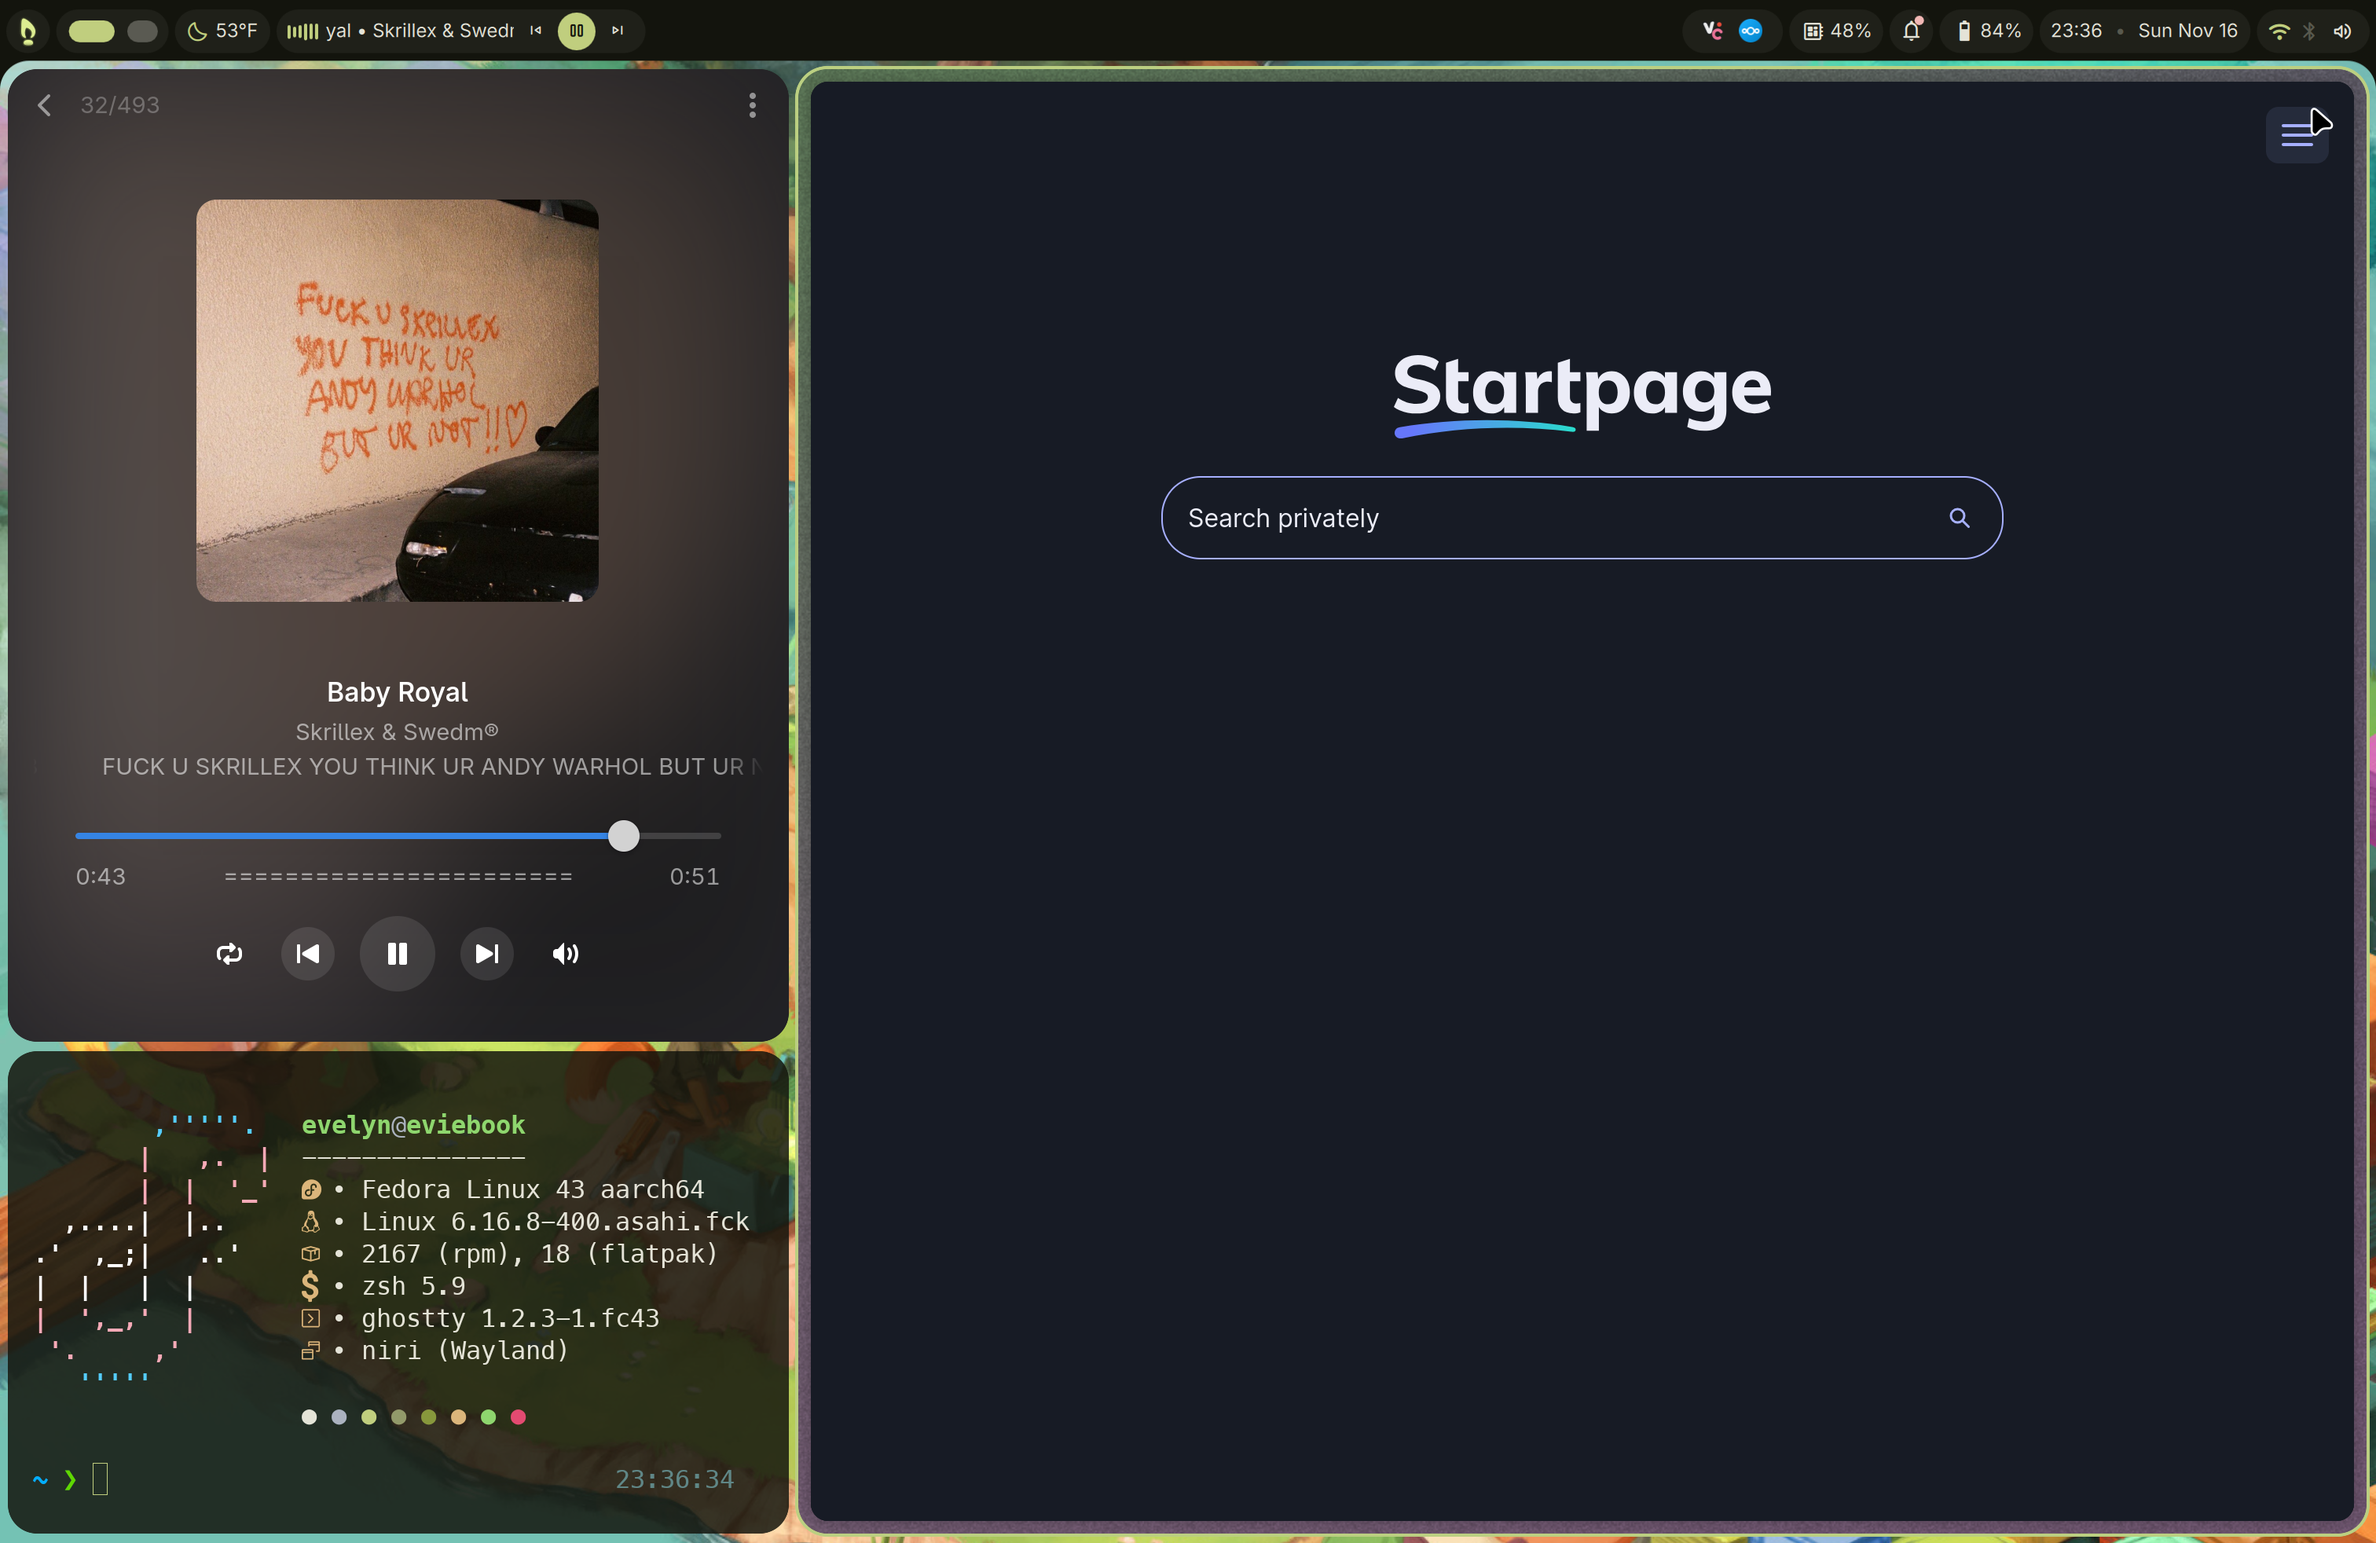
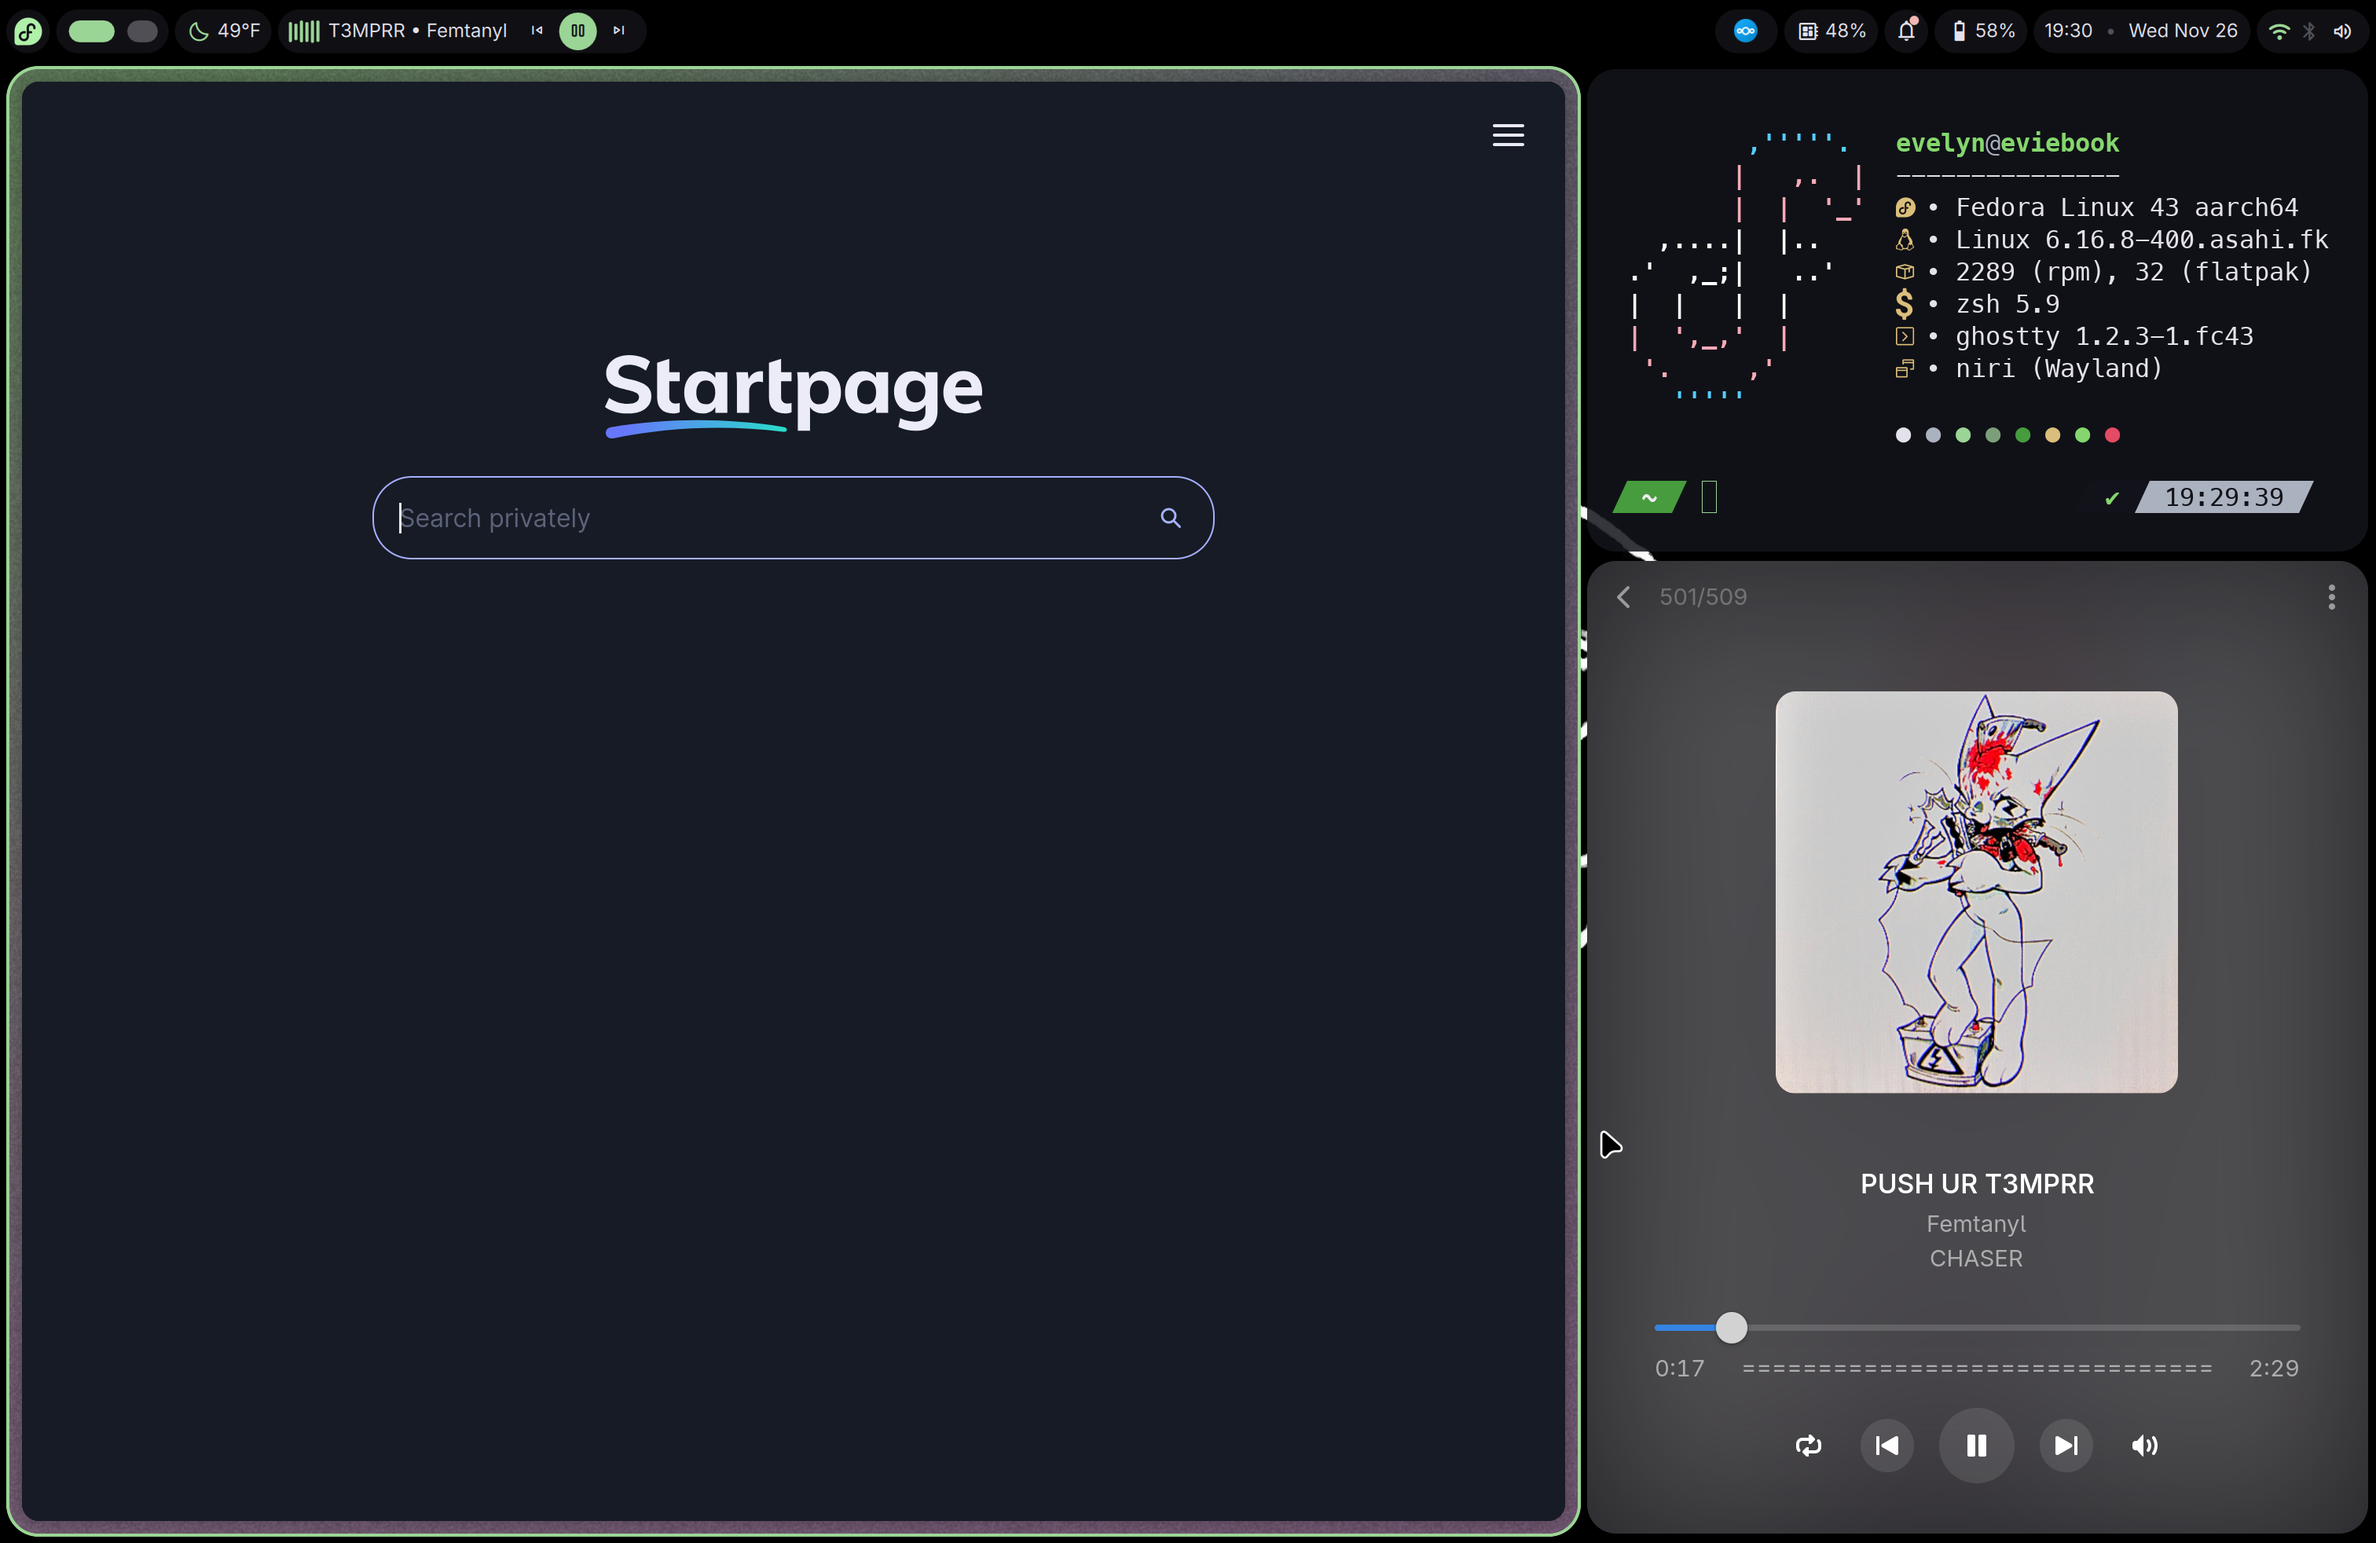
occasional update :3

diff --git a/README.md b/README.md
@@ -17,6 +17,7 @@ if you have something that's not the laptop i have you'll probably need to chang
 - copy `DankMaterialShell`, `fastfetch`, `ghostty`, `niri`, `hyfetch.json`, and `quickshell` into your `$XDG_CONFIG_HOME` folder (make sure to make backups)
 - if you're ok with having a bit of clutter in that folder you can just clone it in directly (e.g. `git clone https://github.com/dotevie.com/laptop_dotfiles $XDG_CONFIG_HOME`)
 - copy `userChrome.css` in `firefox_css` folder into the `chrome` folder in your Firefox userprofile directory (make sure stylesheets are enabled)
+- set your wallpaper to `wallpaper.png` if you like :3
 
 
 ### extra things:
@@ -26,5 +27,5 @@ if you have something that's not the laptop i have you'll probably need to chang
 - music player: Gapless
 - fetch thing(??): hyfetch + fastfetch
 - browser: Zen
-- wallpaper: from [David Revoy](https://framapiaf.org/@davidrevoy/110519900449848982)
+- wallpaper: made with art from [@d6016.bsky.social](https://bsky.app/profile/d6016.bsky.social/post/3lcgyu6fohc2b)
 - `userChrome.css` file inside `firefox_css` lowers minimum firefox width in order to make 33% look fine
